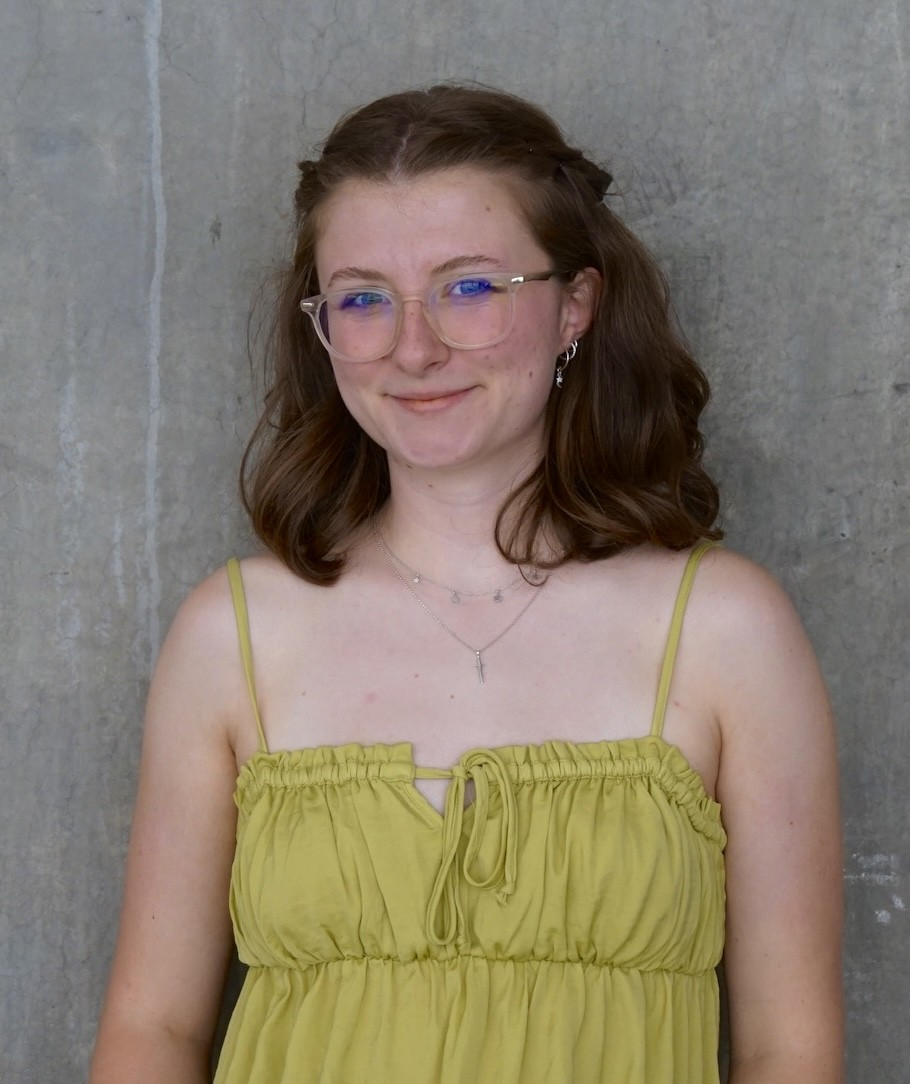
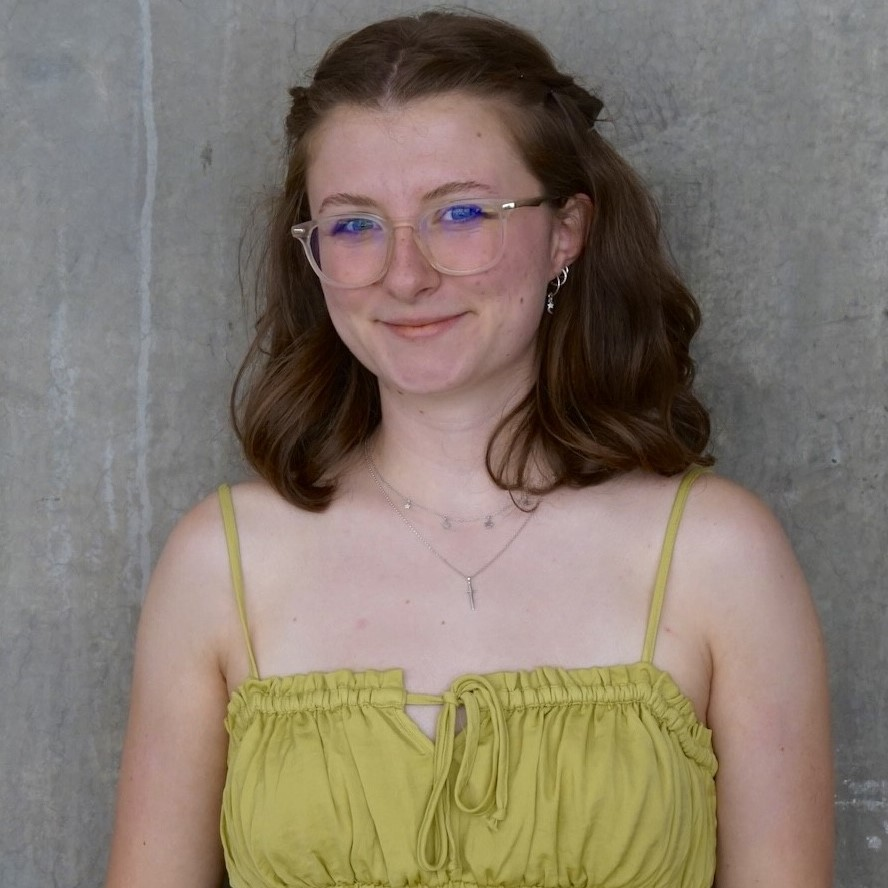
Update style
Changed navigation bar and formatted about me page

diff --git a/index.html b/index.html
@@ -7,30 +7,23 @@
         <link rel="stylesheet" type="text/css" href="style.css" />
         <link rel="stylesheet" href="https://use.fontawesome.com/releases/v5.6.1/css/all.css">
         <link href='https://fonts.googleapis.com/css?family=Lato' rel='stylesheet'>
+        <link rel="preconnect" href="https://fonts.googleapis.com">
+        <link rel="preconnect" href="https://fonts.gstatic.com" crossorigin>
+        <link href="https://fonts.googleapis.com/css2?family=Pixelify+Sans:wght@400..700&display=swap" rel="stylesheet">
     </head>
     <body>
-        <div class = "headBar">
-            <h1 id = "name">Ragan Lee</h1>
-            <a class = "socials" href="https://github.com/raaganl"><i class="fab fa-github"></i></a>
-            <a class = "socials" href="https://www.linkedin.com/in/ragan-lee-55a135276/"><i class="fab fa-linkedin"></i></a>
-        </div> 
-        <div class = "navbar">
-            <a href="index.html">Home</a>
-            <a href="resume.html">Resume</a>
-            <a href = "portfolio.html">My Projects</a>
-        </div>
-        <div id = "intro">
-            <h1>Hi there!</h1>
-            <div class = "picture-text-container">
-                <div id = introBlurb>
-                <p>I am a programmer with an extensive artistic background who is currently pursuing a BS in Computer Science and a minor in Creative Technology and Design (CTD) at CU Boulder. My interests encompass UX/UI, game development, HCI, and backend software development. I am always looking for opportunities to combine technical skills and creative flair.
-                </p>
-                <p>
-                    When I’m away from my computer I enjoy drawing, skiing, and consuming mass amounts of fictional media.
-                </p>
-                </div>
-                <img id = "headshotRagan" src = "headshot.jpg" alt="A photo of Ragan Lee (me!)">
-            </div>
+        <div class = "header">
+            <div class = "headBar">
+                <h1 id = "name">RWL</h1>
+                <a class = "socials" href="https://github.com/raaganl"><i class="fab fa-github"></i></a>
+                <a class = "socials" href="https://www.linkedin.com/in/ragan-lee-55a135276/"><i class="fab fa-linkedin"></i></a>
+            </div> 
+            <nav class = "navbar">
+                <a href="index.html">Home</a>
+                <a href = "portfolio.html">My Projects</a>
+                <a href = "aboutMe.html">About Me</a>
+                <a href="resume.html">Resume</a>
+            </nav>
         </div>
     </body>
 </html>

diff --git a/style.css b/style.css
@@ -2,65 +2,84 @@
 body{
     background-color: #ffffff;
     font-family: Arial, Helvetica, sans-serif;
+    margin-top: 0%;
+    margin-left: 0%;
+    margin-right: 0%;
+}
+.header{
+    position: sticky;
+    background-color: #847CFF;
 }
 .navbar{
-    position: sticky;
-    top: 10%;
-    width: 100%;
+    float: none;
     height: 3rem;
-    background-color: #c1c9ef;
-    align-content:center;
+    text-align: center;
     a{
         text-decoration: none;
-        padding: 10px;
+        padding: 5%;
         font-family: Verdana, Tahoma, sans-serif;
         font-size: 1.5rem;
-        font-weight:2rem;
+        font-weight:bolder;
+        color:#ffffff
     }
 }
 .headBar{
-    top: 0;
-    padding: .5rem;
     #name{
-        font-family:'Helvetica Neue', sans-serif;
-        font-weight:1rem;
+        font-family: "Pixelify Sans", sans-serif;;
+        font-weight:bolder;
         font-style:oblique;
-        font-size: 2.5rem;
+        font-size: 3.2rem;
+        letter-spacing: .2rem;
         color:#11058F;
         display: inline;
+        margin-left: 2%;
 
     }
     .socials{
-        font-size: 2rem;
-        position: sticky;
+        font-size: 2.5rem;
         float: right;
-        margin: 10px;
-        vertical-align: text-bottom;
+        color: #ffffff;
+        margin-right: 2%;
+        margin-top: 1%;
+    }
+    a:hover{
+        color:#11058F;
     }
 }
 
 a{
-    color: #665BFF;
+    color: #3729C6;
 }
 a:hover{
-    color:#3729C6;
+    color:#11058F;
+}
+.pageHeading{
+    font-size: 2rem;
+    margin-left: 3%;
+    background-color: #DCDCDC;;
+    margin-left: 0%;
+    padding-left:3%;
+    width: 30%;
+    text-align: center;
 }
 
-/*Index Only */
-#intro{
-    margin-left: 5%;
-    margin-right: 5%;
-    margin-top: 2%;
-}
+/*About Me Only */
 #introBlurb{
-    padding: 3%;
+    font-size: 1.5rem;
+    margin-right: 5%;
 }
 .picture-text-container{
     display: flex;
-    justify-content: space-evenly;
+    align-items:center;
+    justify-content: center;
+    margin-left: 10%;
+    margin-right: 10%;
+    margin-top: -3%;
 }
 #headshotRagan{
-    width: 300px;
-    float: right;
-    border-radius: 70%;
+    width: 450px;
+    height: 450px;
+    object-fit: cover;
+    border-radius: 50%;
+    border: 1rem solid #DCDCDC;
 }

diff --git a/portfolio.html b/portfolio.html
@@ -7,17 +7,23 @@
     <link rel="stylesheet" type="text/css" href="style.css" />
     <link rel="stylesheet" href="https://use.fontawesome.com/releases/v5.6.1/css/all.css">
     <link href='https://fonts.googleapis.com/css?family=Lato' rel='stylesheet'>
+    <link rel="preconnect" href="https://fonts.googleapis.com">
+<link rel="preconnect" href="https://fonts.gstatic.com" crossorigin>
+<link href="https://fonts.googleapis.com/css2?family=Pixelify+Sans:wght@400..700&display=swap" rel="stylesheet">
 </head>
 <body>
-    <div class = "headBar">
-        <h1 id = "name">Ragan Lee</h1>
-        <a class = "socials" href="https://github.com/raaganl"><i class="fab fa-github"></i></a>
-        <a class = "socials" href="https://www.linkedin.com/in/ragan-lee-55a135276/"><i class="fab fa-linkedin"></i></a>
-    </div> 
-    <div class = "navbar">
-        <a href="index.html">Home</a>
-        <a href="resume.html">Resume</a>
-        <a href = "portfolio.html">My Projects</a>
+    <div class = "header">
+        <div class = "headBar">
+            <h1 id = "name">RWL</h1>
+            <a class = "socials" href="https://github.com/raaganl"><i class="fab fa-github"></i></a>
+            <a class = "socials" href="https://www.linkedin.com/in/ragan-lee-55a135276/"><i class="fab fa-linkedin"></i></a>
+        </div> 
+        <nav class = "navbar">
+            <a href="index.html">Home</a>
+            <a href = "portfolio.html">My Projects</a>
+            <a href = "aboutMe.html">About Me</a>
+            <a href="resume.html">Resume</a>
+        </nav>
     </div>
 </body>
 </html>

diff --git a/aboutMe.html b/aboutMe.html
@@ -3,7 +3,7 @@
     <head>
         <meta charset="UTF-8">
         <meta name="viewport" content="width=device-width, initial-scale=1.0">
-        <title>About me!</title>
+        <title>Ragan Lee</title>
         <link rel="stylesheet" type="text/css" href="style.css" />
         <link rel="stylesheet" href="https://use.fontawesome.com/releases/v5.6.1/css/all.css">
         <link href='https://fonts.googleapis.com/css?family=Lato' rel='stylesheet'>
@@ -25,5 +25,16 @@
                 <a href="resume.html">Resume</a>
             </nav>
         </div>
+        <div class = "pageHeading">
+            <h2>Hi There!</h2>
+        </div>
+        <div class = "picture-text-container">
+            <div id = introBlurb>
+            <p>I am a programmer with an extensive artistic background who is currently pursuing a BS in Computer Science and a minor in Creative Technology and Design (CTD) at CU Boulder. My interests encompass UX/UI, game development, HCI, and backend software development.
+            <p>
+                When I’m away from my computer I enjoy drawing, skiing, and consuming mass amounts of fictional media.
+            </p>
+            </div>
+            <img id = "headshotRagan" src = "headshot.jpg" alt="A photo of Ragan Lee (me!)">
+        </div>
     </body>
-</html>
